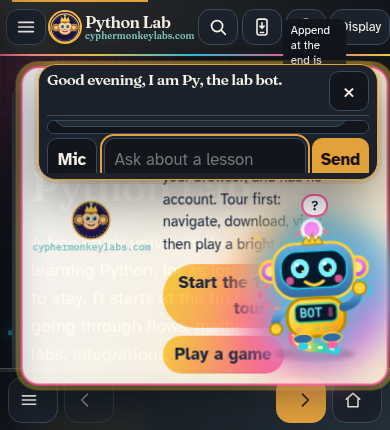
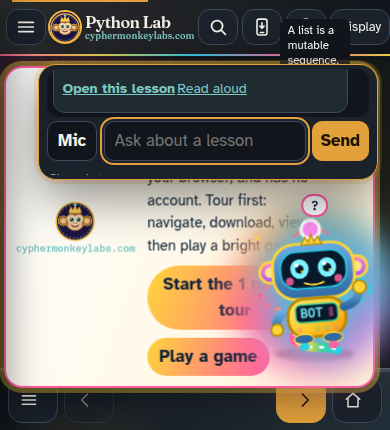
Give the short-screen answer log the gap above the bot.
A 390 by 430 panel is only as tall as the space over the character, so the log keeps a 48px scrollport and Clear stays on screen without covering the bot.

Changed region(s): [[0.0, 0.1209, 1.0, 0.9372], [0.7077, 0.0605, 0.8615, 0.1512]]

diff --git a/js/botpanel.js b/js/botpanel.js
@@ -78,7 +78,8 @@ function position() {
   if (maxH < 1) maxH = Math.min(Math.max(above, below), cap);
   p.style.maxHeight = `${maxH}px`;
   p.style.height = "auto";
-  if (p.scrollHeight > maxH + 1) p.style.height = `${maxH}px`;
+  const short = view.height <= 560;
+  if (short || p.scrollHeight > maxH + 1) p.style.height = `${maxH}px`;
   const pw = p.offsetWidth || Math.min(340, view.width - 16);
   const left = Math.min(Math.max(view.left + 8, r.right - pw), view.left + view.width - pw - 8);
   const height = Math.min(p.offsetHeight, maxH);

diff --git a/shared/pybot-chat/chat.css b/shared/pybot-chat/chat.css
@@ -108,6 +108,8 @@
     min-height: 48px;
     max-height: none;
     overflow: auto;
+    padding: 4px 6px;
+    border-width: 0;
   }
   .py-chat-form button,
   .py-mic,
